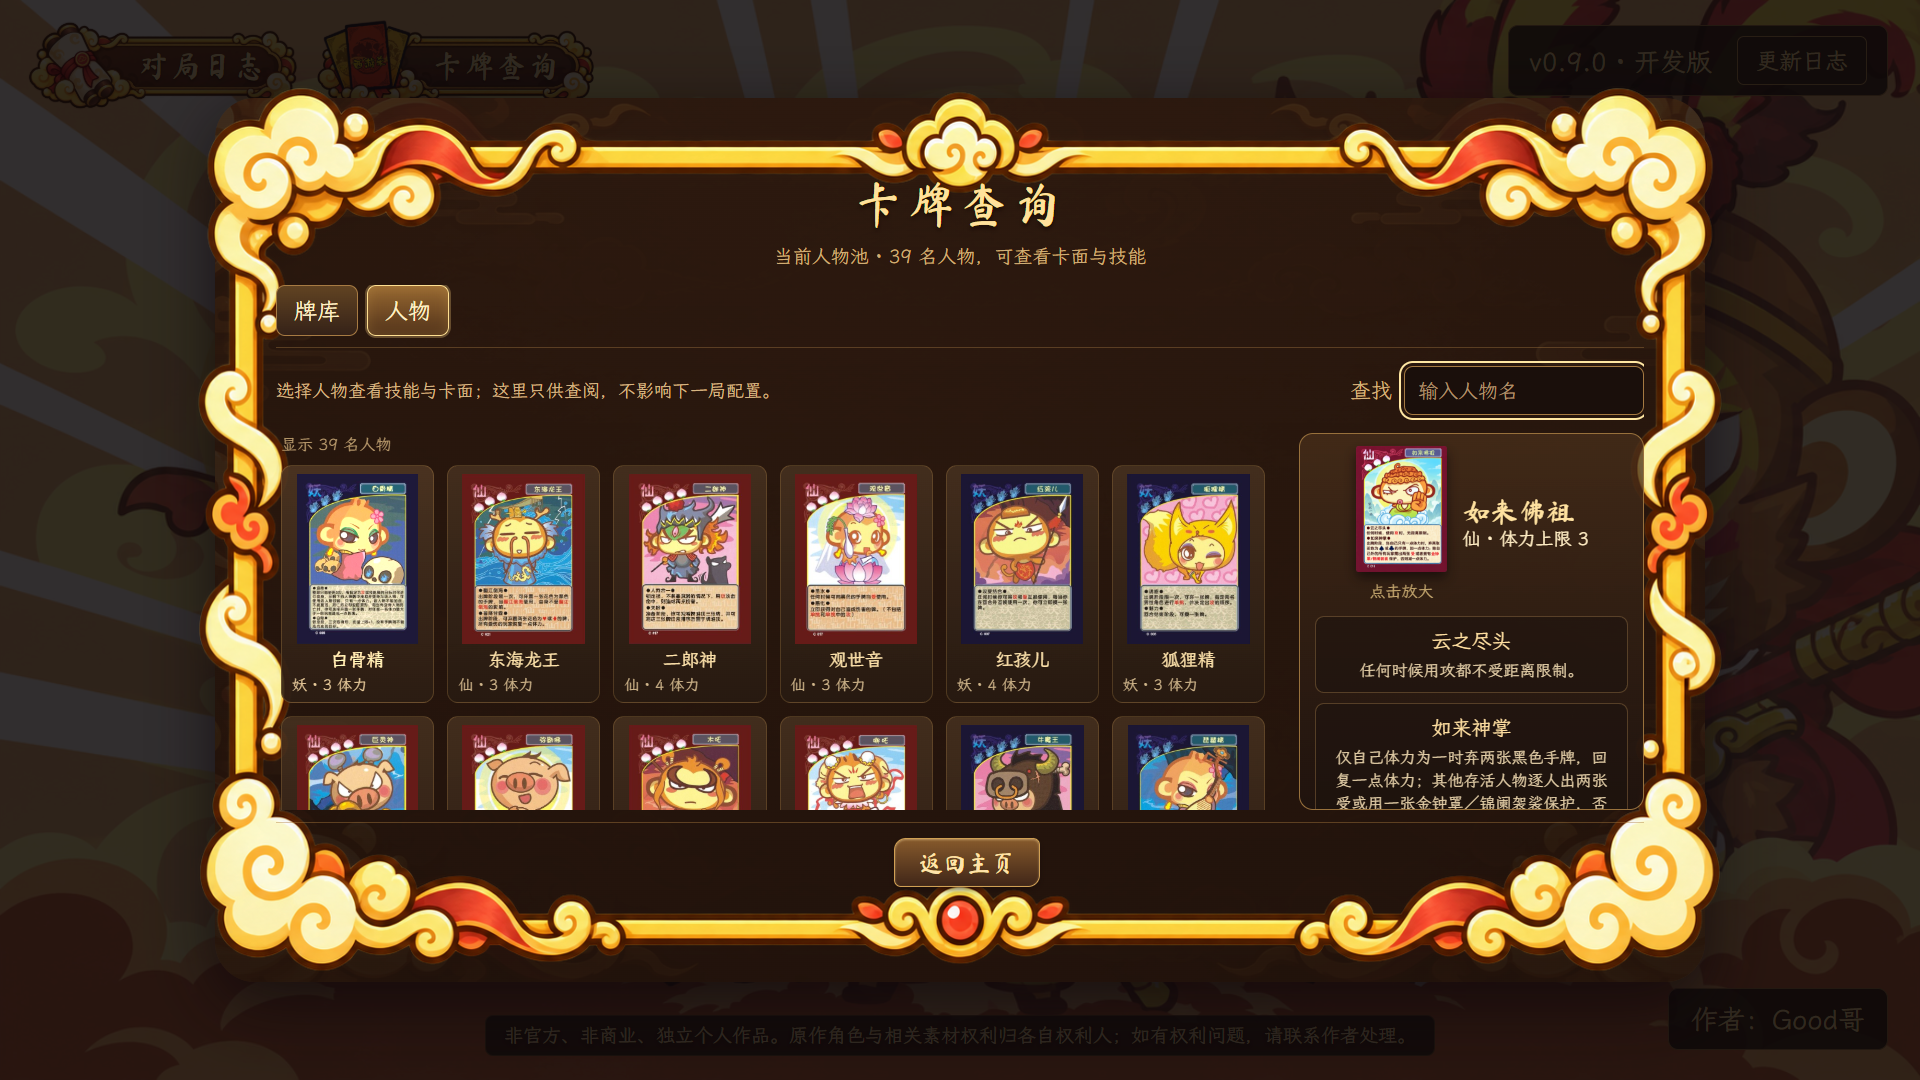
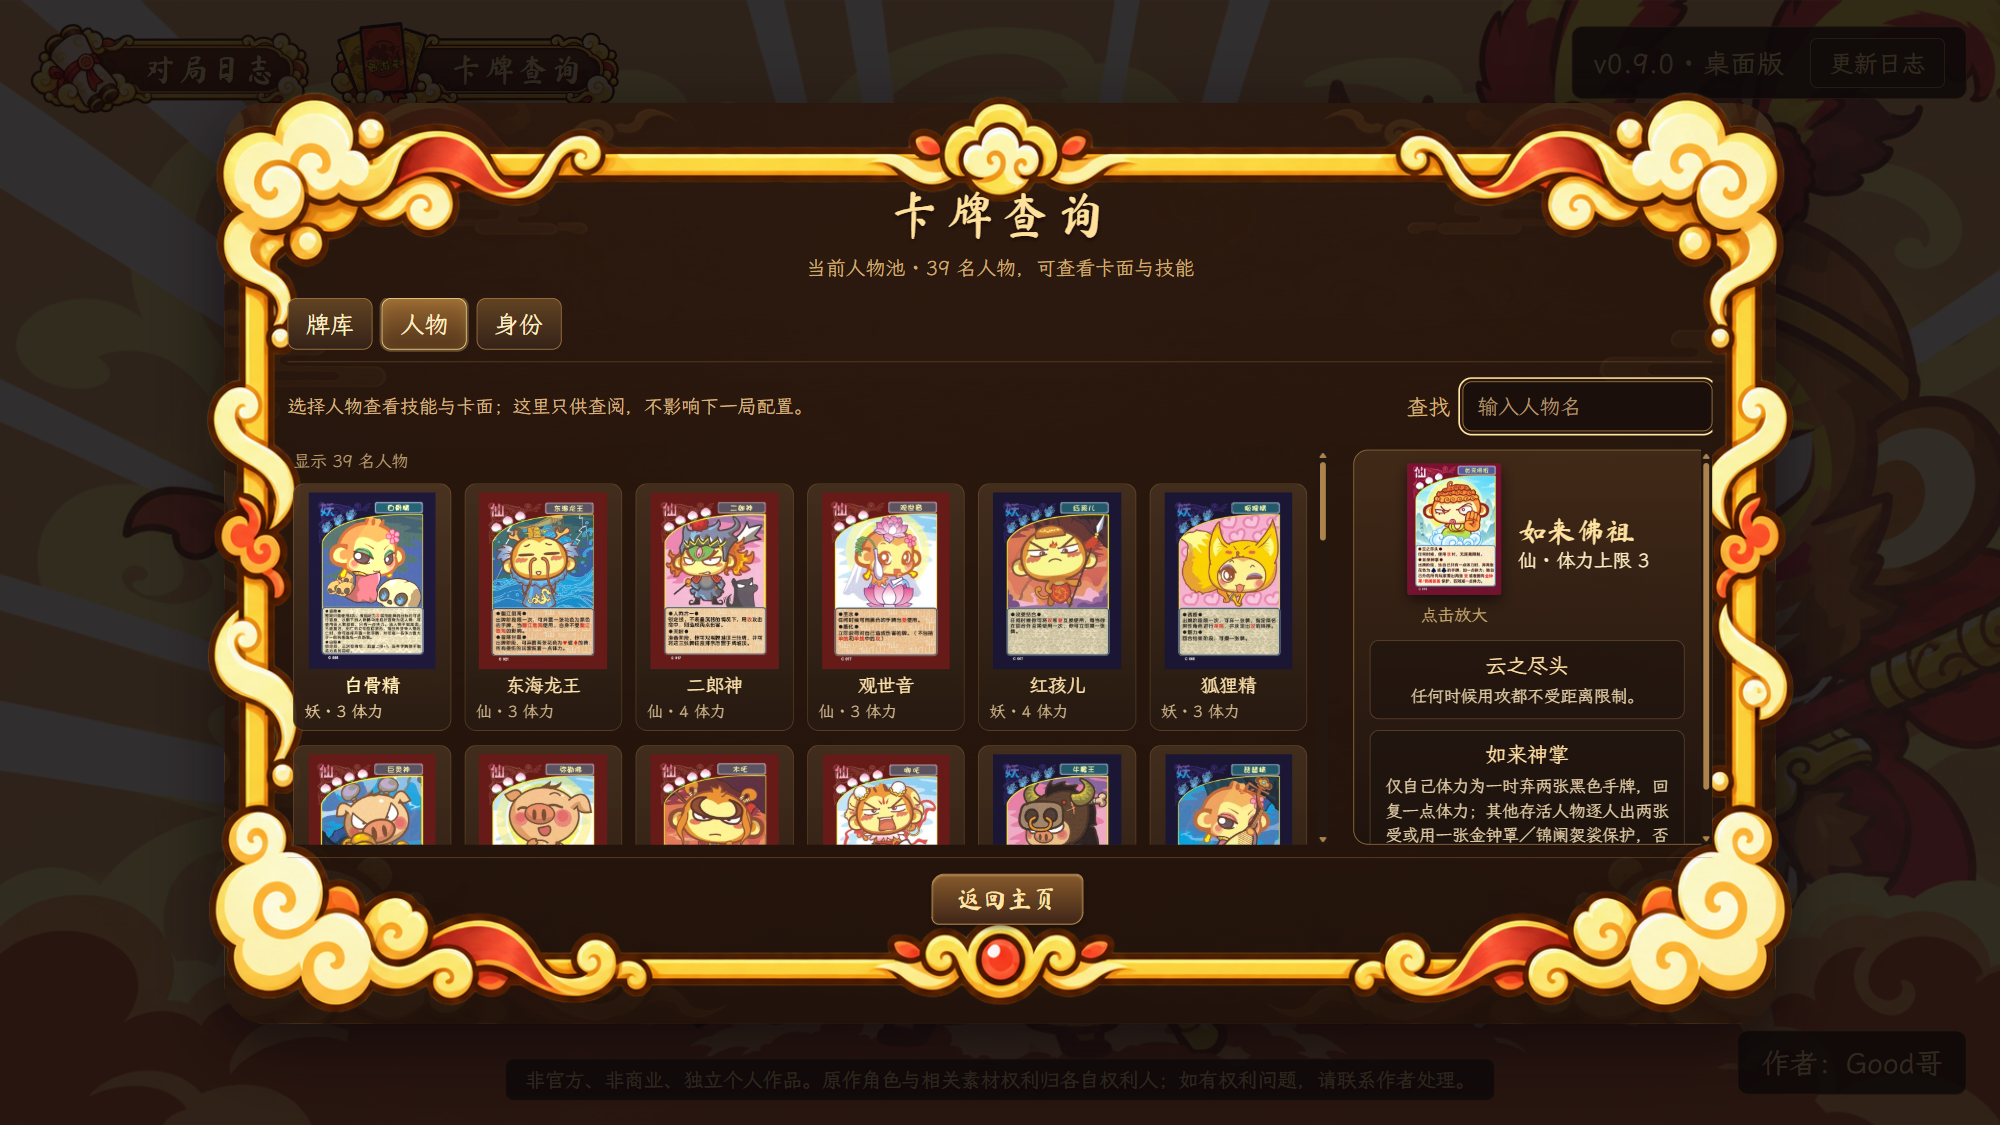
更新 v0.9.0 下载说明与身份图鉴

diff --git a/README.md b/README.md
@@ -4,17 +4,19 @@
   <img src="images/icon.png" width="160" alt="西游杀应用图标" />
 </p>
 
-<p align="center">v0.9.0 开发中 · Windows 桌面版</p>
+<p align="center">v0.9.0 · Windows x64 桌面版</p>
 
-这是我做的《西游杀》桌面版，按原来的身份、人物卡和装备规则玩。可以开 3 到 12 人的单机局，你和 2 到 11 名本地机器人一起玩。开局能选简单、普通或困难，联机还没开放。
+这是我做的《西游杀》桌面版。可以开 3 到 12 人的单机局，你和 2 到 11 名本地机器人一起玩。开局能选简单、普通或困难，联机还没开放。
 
-目前做到 v0.9.0，还没有打包这一版。这个仓库放的是游戏介绍和截图，源码没有公开。
+[下载 Windows x64 安装包（v0.9.0）](https://github.com/zxz0119/xiyousha-desktop/releases/download/v0.9.0/xiyousha_0.9.0_x64-setup.exe) · [查看发布说明](https://github.com/zxz0119/xiyousha-desktop/releases/tag/v0.9.0)
 
 ![v0.9.0 主页](images/home-v09.png)
 
 ## 怎么开一局
 
 在主页点“单人模式”，选好人数和难度，就可以抽身份、选人物。身份随机分配，你能看到自己的身份和谁是唐僧，其他身份默认隐藏，阵亡后公开。每人从三张候选人物里选一张，拿到 4 张起始手牌。
+
+返回设置后再次确认，会重新抽身份和候选人物。查看卡面不会重抽；读取存档则继续原来的局。身份随机，有时会碰巧抽到同一个。
 
 轮到你时，按判定、摸牌、出牌、弃牌的顺序操作。手牌超过上限，要先弃够牌才能结束回合。出牌时点手牌和目标，再确认；遇到攻击、单挑或其他需要响应的效果，桌面会提示当前该做什么。没看清刚才发生了什么，可以翻最近行动或完整对局记录。
 
@@ -25,6 +27,10 @@
 ![点选手牌与目标](images/target-selection-v08.png)
 
 ## 身份怎么算赢
+
+主页“卡牌查询”的“身份”页可以查看四种身份牌和胜利条件，也能放大卡面。
+
+![身份牌查询](images/identity-library-v09.png)
 
 - 唐僧和取经人要击败所有妖怪、神仙，唐僧不能阵亡。
 - 妖怪要击败唐僧，并且场上还得有妖怪存活。
@@ -106,7 +112,11 @@
 
 </details>
 
-唐僧身份还有紧箍咒、假身和混淆视听。
+唐僧使用新的 [完整身份卡](images/identities-v09/唐僧.png)。人物层被击败后启用两点体力的真身，技能按这张牌结算。
+
+- 唐僧肉在真身阶段生效。每次受攻的伤害，成功攻击者恢复一点体力，不超过上限。
+- 紧箍咒每回合一次，要求孙悟空、猪八戒或沙和尚攻击合法目标；没有出攻，唐僧摸一张。
+- 往生咒整局一次，在死亡确认、身份公开前恢复目标两点体力，保留手牌、装备和判定牌。可以救唐僧自己的选用人物层，不能救真身。放弃不消耗次数。
 
 ### 如来神掌与伤害收牌
 
@@ -129,7 +139,7 @@
 
 七星宝剑、金刚圈、紫金铃铛、九瓣花花锤是常驻武器。八丈火尖枪、九齿钉钉耙、方方便便铲、短短狼牙棒、红缨枪和金箍棒则是一次性的附加武器。
 
-坐骑谁都能装备，距离效果也都能用，但专属技能要看人物或身份。例如，大鹏金翅鸟的身份交换只有弥勒佛、如来佛祖能发动；白龙马的专属技能则给唐僧身份和小白龙使用。仙鹤、筋斗云、避水金睛兽、风火轮也各有对应的人物。
+坐骑谁都能装备，距离效果也都能用，但专属技能要看人物或身份。例如，大鹏金翅鸟的身份交换只有如来佛祖能发动；弥勒佛和其他人物都可以装备它、使用距离效果。白龙马的专属技能给唐僧身份和小白龙使用。仙鹤、筋斗云、避水金睛兽、风火轮也各有对应的人物。
 
 ![卡牌查询](images/card-library-v081.png)
 
@@ -143,6 +153,10 @@
 
 打完的对局会自动归档，在“对局日志”里能看行动记录和回放，也能导出视频或诊断记录。旧存档中的行动记录和回放会保留。
 
+这个安装包可以直接回放和导出诊断记录。视频导出器仍依赖本地开发目录、Node.js 和 FFmpeg，尚未随安装包提供，不能在只有安装包的电脑上独立使用。
+
+旧局继续玩时，会在当前结算结束后切换到新版唐僧和大鹏规则。第一次保存升级后的局，会保留原存档备份。开局时的人物池和过去的行动、胜负保留，回放按升级前后的规则分别执行。
+
 遇到卡住、结算不对之类的问题，可以在退出弹窗点“导出诊断 TXT”。不用先选存档槽，点它也不会保存或退出游戏。即使存档校验失败，诊断文件仍会尽量留下错误信息和当前状态。
 
 导出视频、诊断 TXT 或 JSON 时，都会先让你选保存位置，取消就不会生成文件。诊断文件只保存在本机，不会自动上传，不过里面可能有这局尚未公开的牌，分享前请留意。
@@ -153,27 +167,36 @@
 
 ## 安装和更新
 
-v0.9.0 还没有安装包。下面这张是此前版本的安装向导截图。
+安装包约 130.31 MB，下载后双击 `xiyousha_0.9.0_x64-setup.exe`，按向导安装。已有旧版的话，先保存对局、关闭程序，再覆盖安装。
+
+仓库处于私有状态时，下载需要登录有访问权限的 GitHub 账号；公开后可以直接下载。下面是安装向导的界面。
 
 ![此前版本的安装向导](images/installer-v081.png)
 
-以后发布新版安装包，可以在“游戏设置 → 版本与更新”里手动检查。下载后会验证签名，再询问是否安装。连不上 GitHub 或下载失败时，设置页还会给出备用下载页面。
+在“游戏设置 → 版本与更新”里点“检查更新”，发现新版后可以下载。下载完成会验证签名，再由你确认安装。仓库公开且能连接 GitHub 时，这个入口即可正常检查更新；私有仓库无法匿名检查。连不上或下载失败时，设置页还会给出备用下载页面。
 
 正常更新会保留存档和对局记录。如果自己卸载旧版，记得别勾选“删除应用数据”；有重要存档的话，先备份一份。
 
 ## v0.9.0 改了什么
 
-v0.9.0 扩充了人物池，也调整了几处操作和技能结算。
+v0.9.0 的人物池和身份查询已经整理好，开局、存档与技能结算也做了调整。
 
 - 人物池有 39 人，蜘蛛精能用盘丝洞和施毒，如来佛祖的攻不受距离限制，也能发动如来神掌。20 张完整人物卡都已换成清晰的印刷版。
 - 单机对局人数可选 3 到 12 人，各人数的身份数量按手册分配。
 - 所有角色都能装备坐骑使用距离效果，专属技能仍由对应人物或身份发动。
+- 大鹏的身份交换只由如来佛祖发动；弥勒佛保留通用距离效果。
+- 卡牌查询可以查看四种身份。唐僧卡面与技能采用唐僧肉、每回合一次的紧箍咒、整局一次的往生咒。
+- 返回设置后再次确认会重新抽签；卡面预览和读档保留结果。
+- 旧存档继续局会迁移身份规则，首次覆盖前保留原备份，回放保留迁移前后的行动。
+- 紧箍咒与狐狸精诱惑在回合结束后重新计数，旧版本的回放也保留了对应兼容处理。
 - 托塔天王猜拳平局可以重猜；六耳猕猴用硬币正反面判断，双方选择互相隐藏。
 - 选中三昧真火时，选择按钮不会再横跨牌桌；人物卡外侧残留的白边也清理了。
 - 小白龙在多种技能伤害后都会进行判定。观音与小白龙同时取得两张群体来源牌时各拿一张；小白龙判定失败，观音拿两张。
 - 退出弹窗可直接导出诊断 TXT；视频与诊断文件导出时可选择保存位置。
 - 返回主页、关闭游戏和主页退出会分别询问如何处理当前对局。
 - 主页和说明页写明这是“非官方、非商业、独立个人作品”。
+- 安装包只排除 101 张不会进入牌库的花色图片和两张未使用的旧背景；使用中的图片、字体、音乐格式保持原样，包体约 130.31 MB。
+- 安装包支持回放与诊断导出；独立视频导出器尚未随包提供。
 
 ![修正后的三昧真火选牌界面](images/fire-selected-v09.png)
 
